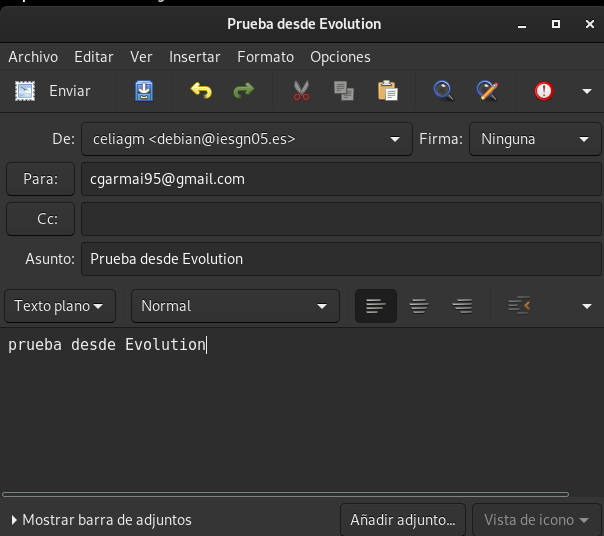
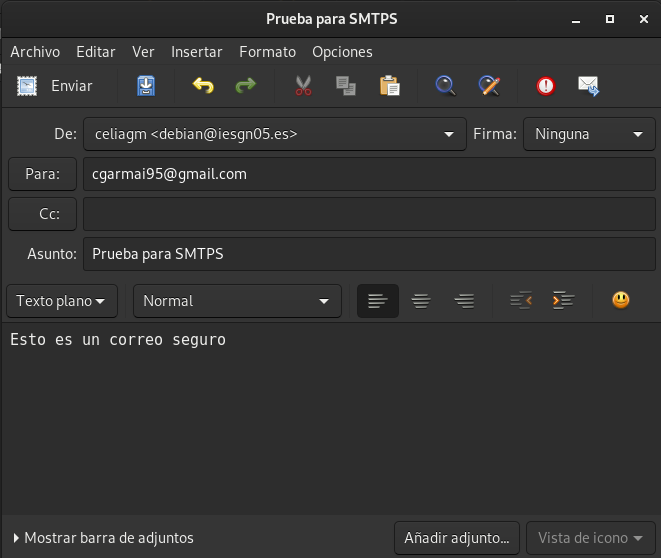
commit automatico

diff --git a/posts/2021/01/servidor-de-correos.-postfix-iii./index.html b/posts/2021/01/servidor-de-correos.-postfix-iii./index.html
@@ -55,7 +55,7 @@ Configuración:
  Para hacer esta tarea vamos a indicar a postfix en su configuración dónde se van a guardar los nuevos correos.">
 <meta itemprop="datePublished" content="2021-01-25T17:15:21+01:00" />
 <meta itemprop="dateModified" content="2021-01-25T17:15:21+01:00" />
-<meta itemprop="wordCount" content="2840">
+<meta itemprop="wordCount" content="2560">
 <meta itemprop="image" content="https://unbitdeinformacioncadadia.netlify.app/images/avatar_red.jpg"/>
 
 
@@ -155,7 +155,7 @@ Configuración:
           <circle cx="12" cy="12" r="10"></circle>
           <polyline points="12 6 12 12 16 14"></polyline>
         </svg>
-        14 minutes
+        13 minutes
 
         
       </p>
@@ -549,83 +549,39 @@ Feb  <span style="color:#ae81ff">9</span> 20:10:37 kiara postfix/smtpd<span styl
 <p>Elige una de las opciones anterior para realizar el cifrado. Y muestra la configuración de un cliente de correo (evolution, thunderbird, …) y muestra como puedes enviar los correos.</p>
 <h4 id="111-smtps-configuración">11.1. SMTPS. Configuración</h4>
 <p>Previamente hemos agregado un CNAME indicando smtp.iesgn05.es para kiara.iesgn05.es en la zona DNS.</p>
-<p>Ahora vamos a intentar mandar un correo desde el servidor a gmail. Antes de eso vamos a crear los certificados con openssl</p>
-<div class="highlight"><pre style="color:#f8f8f2;background-color:#272822;-moz-tab-size:4;-o-tab-size:4;tab-size:4"><code class="language-sh" data-lang="sh"><span style="color:#75715e"># Creamos la clave privada</span>
-debian@kiara:~$ openssl genrsa -des3 -out kiara.key <span style="color:#ae81ff">2048</span>
-Generating RSA private key, <span style="color:#ae81ff">2048</span> bit long modulus <span style="color:#f92672">(</span><span style="color:#ae81ff">2</span> primes<span style="color:#f92672">)</span>
-...........+++++
-..................................................................................................................................+++++
-e is <span style="color:#ae81ff">65537</span> <span style="color:#f92672">(</span>0x010001<span style="color:#f92672">)</span>
-Enter pass phrase <span style="color:#66d9ef">for</span> kiara.key:
-Verifying - Enter pass phrase <span style="color:#66d9ef">for</span> kiara.key:
-
-<span style="color:#75715e"># Con la clave privada creada creamos otra clave &#39;insegura&#39;</span>
-
-debian@kiara:~$ openssl rsa -in kiara.key -out kiara.key.insecure
-Enter pass phrase <span style="color:#66d9ef">for</span> kiara.key:
-writing RSA key
-
-<span style="color:#75715e"># Ahora le cambiamos el nombre de la primera clave que hemos creado y la denominamos como segura</span>
-debian@kiara:~$ mv kiara.key kiara.key.secure
-
-<span style="color:#75715e"># Después la &#39;insegura la convertimos en la clave primaria&#39;</span>
-
-debian@kiara:~$ mv kiara.key.insecure kiara.key
-
-<span style="color:#75715e"># Con openssl creamos el certificado de que nos va a servir para smtp</span>
-
-debian@kiara:~$ openssl req -new -key kiara.key -out kiara.csr
-You are about to be asked to enter information that will be incorporated
-into your certificate request.
-What you are about to enter is what is called a Distinguished Name or a DN.
-There are quite a few fields but you can leave some blank
-For some fields there will be a default value,
-If you enter <span style="color:#e6db74">&#39;.&#39;</span>, the field will be left blank.
------
-Country Name <span style="color:#f92672">(</span><span style="color:#ae81ff">2</span> letter code<span style="color:#f92672">)</span> <span style="color:#f92672">[</span>AU<span style="color:#f92672">]</span>:ES
-State or Province Name <span style="color:#f92672">(</span>full name<span style="color:#f92672">)</span> <span style="color:#f92672">[</span>Some-State<span style="color:#f92672">]</span>:Sevilla
-Locality Name <span style="color:#f92672">(</span>eg, city<span style="color:#f92672">)</span> <span style="color:#f92672">[]</span>:Sevilla
-Organization Name <span style="color:#f92672">(</span>eg, company<span style="color:#f92672">)</span> <span style="color:#f92672">[</span>Internet Widgits Pty Ltd<span style="color:#f92672">]</span>:
-Organizational Unit Name <span style="color:#f92672">(</span>eg, section<span style="color:#f92672">)</span> <span style="color:#f92672">[]</span>:
-Common Name <span style="color:#f92672">(</span>e.g. server FQDN or YOUR name<span style="color:#f92672">)</span> <span style="color:#f92672">[]</span>:
-Email Address <span style="color:#f92672">[]</span>:
-
-Please enter the following <span style="color:#e6db74">&#39;extra&#39;</span> attributes
-to be sent with your certificate request
-A challenge password <span style="color:#f92672">[]</span>:
-An optional company name <span style="color:#f92672">[]</span>:
-
-<span style="color:#75715e"># Una vez creado el certificado vamos a firmarlo con la clave primada y obtendremos el certificado final</span>
-
-debian@kiara:~$ openssl x509 -req -days <span style="color:#ae81ff">365</span> -in kiara.csr -signkey kiara.key -out kiara.crt
-Signature ok
-subject<span style="color:#f92672">=</span>C <span style="color:#f92672">=</span> ES, ST <span style="color:#f92672">=</span> Sevilla, L <span style="color:#f92672">=</span> Sevilla, O <span style="color:#f92672">=</span> Internet Widgits Pty Ltd
-Getting Private key
-
-<span style="color:#75715e"># Copiamos los certificados a los directorios pertinentes</span>
-
-debian@kiara:~$ sudo cp kiara.crt /etc/ssl/certs
-debian@kiara:~$ sudo cp kiara.key /etc/ssl/private
-
+<p>Ahora vamos a intentar mandar un correo desde el servidor a gmail.</p>
+<p>Creamos el certificado con LetsEncrypt para smtp, previamente hemos creado un CNAME con SMTP para kiara.iesgn05.es</p>
+<div class="highlight"><pre style="color:#f8f8f2;background-color:#272822;-moz-tab-size:4;-o-tab-size:4;tab-size:4"><code class="language-sh" data-lang="sh">sudo certbot certonly --standalone -d smtp.iesgn05.es
 </code></pre></div><ul>
-<li>Editamos el fichero de configuracion de postfix, cambiamos la configuracion indicando los nuevos certificados</li>
-</ul>
-<div class="highlight"><pre style="color:#f8f8f2;background-color:#272822;-moz-tab-size:4;-o-tab-size:4;tab-size:4"><code class="language-sh" data-lang="sh">debian@kiara:~$ sudo nano /etc/postfix/main.cf
-
-</code></pre></div><div class="highlight"><pre style="color:#f8f8f2;background-color:#272822;-moz-tab-size:4;-o-tab-size:4;tab-size:4"><code class="language-sh" data-lang="sh">...
-
-<span style="color:#75715e"># TLS parameters</span>
-smtpd_tls_cert_file<span style="color:#f92672">=</span>/etc/ssl/certs/kiara.crt
-smtpd_tls_key_file<span style="color:#f92672">=</span>/etc/ssl/private/kiara.key
-
-...
-
-</code></pre></div><ul>
-<li>Para usar SMTPS hay que descomentar una línea en el siguiente fichero y descomentar la línea que viene por defecto</li>
+<li>Para usar SMTPS hay que descomentar las siguientes lineas</li>
 </ul>
 <p><code>sudo nano /etc/postfix/master.cf</code></p>
-<div class="highlight"><pre style="color:#f8f8f2;background-color:#272822;-moz-tab-size:4;-o-tab-size:4;tab-size:4"><code class="language-sh" data-lang="sh"><span style="color:#75715e">#smtp      inet  n       -       y       -       -       smtpd</span>
+<div class="highlight"><pre style="color:#f8f8f2;background-color:#272822;-moz-tab-size:4;-o-tab-size:4;tab-size:4"><code class="language-sh" data-lang="sh">smtp      inet  n       -       y       -       -       smtpd
 smtps     inet  n       -       y       -       -       smtpd
+  -o syslog_name<span style="color:#f92672">=</span>postfix/smtps
+  -o smtpd_tls_wrappermode<span style="color:#f92672">=</span>yes
+  -o smtpd_sasl_auth_enable<span style="color:#f92672">=</span>yes
+  -o smtpd_client_restrictions<span style="color:#f92672">=</span>$mua_client_restrictions
+  -o milter_macro_daemon_name<span style="color:#f92672">=</span>ORIGINATING
+</code></pre></div><ul>
+<li>Editamos el fichero de configuracion de postfix, cambiamos la configuracion indicando los nuevos certificados. Añadiremos la siguiente configuración de forma que activamos TLS para que nuestros correos sean seguros y reconozcan los certificados.</li>
+</ul>
+<div class="highlight"><pre style="color:#f8f8f2;background-color:#272822;-moz-tab-size:4;-o-tab-size:4;tab-size:4"><code class="language-sh" data-lang="sh">debian@kiara:~$ sudo nano /etc/postfix/main.cf
+</code></pre></div><div class="highlight"><pre style="color:#f8f8f2;background-color:#272822;-moz-tab-size:4;-o-tab-size:4;tab-size:4"><code class="language-sh" data-lang="sh">...
+<span style="color:#75715e"># TLS parameters</span>
+
+smtpd_use_tls<span style="color:#f92672">=</span>yes
+smtpd_tls_key_file <span style="color:#f92672">=</span> /etc/letsencrypt/live/smtp.iesgn05.es/privkey.pem
+smtpd_tls_cert_file <span style="color:#f92672">=</span> /etc/letsencrypt/live/smtp.iesgn05.es/fullchain.pem
+smtpd_tls_session_cache_database <span style="color:#f92672">=</span> btree:<span style="color:#e6db74">${</span>data_directory<span style="color:#e6db74">}</span>/smtpd_scache
+smtp_tls_session_cache_database <span style="color:#f92672">=</span> btree:<span style="color:#e6db74">${</span>data_directory<span style="color:#e6db74">}</span>/smtp_scache
+
+smtp_tls_security_level <span style="color:#f92672">=</span> may
+smtpd_tls_security_level <span style="color:#f92672">=</span> may
+smtp_tls_note_starttls_offer <span style="color:#f92672">=</span> yes
+smtpd_tls_loglevel <span style="color:#f92672">=</span> <span style="color:#ae81ff">1</span>
+smtpd_tls_received_header <span style="color:#f92672">=</span> yes
+...
 </code></pre></div><ul>
 <li>Reiniciamos los servicios</li>
 </ul>
@@ -634,18 +590,20 @@ debian@kiara:~$ sudo systemctl restart dovecot
 </code></pre></div><ul>
 <li>Comprobamos los puertos. Vemos que se ha abierto el puerto 465 de SMTPS</li>
 </ul>
-<div class="highlight"><pre style="color:#f8f8f2;background-color:#272822;-moz-tab-size:4;-o-tab-size:4;tab-size:4"><code class="language-sh" data-lang="sh">debian@kiara:~$ sudo netstat -tlpn
+<div class="highlight"><pre style="color:#f8f8f2;background-color:#272822;-moz-tab-size:4;-o-tab-size:4;tab-size:4"><code class="language-sh" data-lang="sh">debian@kiara:~/Maildir/new$ sudo netstat -tlnp
 Active Internet connections <span style="color:#f92672">(</span>only servers<span style="color:#f92672">)</span>
 Proto Recv-Q Send-Q Local Address           Foreign Address         State       PID/Program name    
-tcp        <span style="color:#ae81ff">0</span>      <span style="color:#ae81ff">0</span> 0.0.0.0:993             0.0.0.0:*               LISTEN      25578/dovecot       
+tcp        <span style="color:#ae81ff">0</span>      <span style="color:#ae81ff">0</span> 0.0.0.0:993             0.0.0.0:*               LISTEN      32704/dovecot       
 tcp        <span style="color:#ae81ff">0</span>      <span style="color:#ae81ff">0</span> 0.0.0.0:3306            0.0.0.0:*               LISTEN      658/mysqld          
-tcp        <span style="color:#ae81ff">0</span>      <span style="color:#ae81ff">0</span> 0.0.0.0:143             0.0.0.0:*               LISTEN      25578/dovecot       
-tcp        <span style="color:#ae81ff">0</span>      <span style="color:#ae81ff">0</span> 0.0.0.0:465             0.0.0.0:*               LISTEN      13237/master        
+tcp        <span style="color:#ae81ff">0</span>      <span style="color:#ae81ff">0</span> 0.0.0.0:143             0.0.0.0:*               LISTEN      32704/dovecot       
+tcp        <span style="color:#ae81ff">0</span>      <span style="color:#ae81ff">0</span> 0.0.0.0:465             0.0.0.0:*               LISTEN      1157/master         
 tcp        <span style="color:#ae81ff">0</span>      <span style="color:#ae81ff">0</span> 0.0.0.0:22              0.0.0.0:*               LISTEN      568/sshd            
-tcp6       <span style="color:#ae81ff">0</span>      <span style="color:#ae81ff">0</span> :::993                  :::*                    LISTEN      25578/dovecot       
-tcp6       <span style="color:#ae81ff">0</span>      <span style="color:#ae81ff">0</span> :::143                  :::*                    LISTEN      25578/dovecot       
-tcp6       <span style="color:#ae81ff">0</span>      <span style="color:#ae81ff">0</span> :::465                  :::*                    LISTEN      13237/master        
-tcp6       <span style="color:#ae81ff">0</span>      <span style="color:#ae81ff">0</span> :::22                   :::*                    LISTEN      568/sshd  
+tcp        <span style="color:#ae81ff">0</span>      <span style="color:#ae81ff">0</span> 0.0.0.0:25              0.0.0.0:*               LISTEN      1157/master         
+tcp6       <span style="color:#ae81ff">0</span>      <span style="color:#ae81ff">0</span> :::993                  :::*                    LISTEN      32704/dovecot       
+tcp6       <span style="color:#ae81ff">0</span>      <span style="color:#ae81ff">0</span> :::143                  :::*                    LISTEN      32704/dovecot       
+tcp6       <span style="color:#ae81ff">0</span>      <span style="color:#ae81ff">0</span> :::465                  :::*                    LISTEN      1157/master         
+tcp6       <span style="color:#ae81ff">0</span>      <span style="color:#ae81ff">0</span> :::22                   :::*                    LISTEN      568/sshd            
+tcp6       <span style="color:#ae81ff">0</span>      <span style="color:#ae81ff">0</span> :::25                   :::*                    LISTEN      1157/master      
 </code></pre></div><h4 id="funcionamiento">Funcionamiento</h4>
 <ul>
 <li>En Evolution cambiamos la configuracion de smtp de la siguiente forma</li>
@@ -656,19 +614,14 @@ tcp6       <span style="color:#ae81ff">0</span>      <span style="color:#ae81ff"
 </ul>
 <p><img src="https://unbitdeinformacioncadadia.netlify.app/images/ovh_correo/pruebae.png" alt="pruebae.png"></p>
 <ul>
-<li>Nos pide una contraseña ya que, en nuestro certificado creado con openssl le hemos indicado una frase de paso. Esta frase solo la pedirá una vez cada vez que se inicie sesión en la cuenta de correo en el cliente, Evolution.</li>
-</ul>
-<p><img src="https://unbitdeinformacioncadadia.netlify.app/images/ovh_correo/pidecontrasenia.png" alt="pidecontrasenia.png"></p>
-<ul>
-<li>Vemos que lo hemos recibido en gmail correctamente</li>
+<li>Vemos que lo hemos recibido en gmail correctamente y conoce el certificado ya que está expedido por la autoridad de LetsEncrypt</li>
 </ul>
 <p><img src="https://unbitdeinformacioncadadia.netlify.app/images/ovh_correo/recibido.png" alt="recibido.png"></p>
-<p><img src="https://unbitdeinformacioncadadia.netlify.app/images/ovh_correo/recibido1.png" alt="recibido1.png"></p>
+<p><img src="https://unbitdeinformacioncadadia.netlify.app/images/ovh_correo/recibido2.jpeg" alt="recibido2.jpeg"></p>
 <ul>
 <li>Lo contestamos y comprobamos que recibe y envía correctamente correos</li>
 </ul>
-<p><img src="https://unbitdeinformacioncadadia.netlify.app/images/ovh_correo/responde1.png" alt="responde1.png"></p>
-<p><img src="https://unbitdeinformacioncadadia.netlify.app/images/ovh_correo/responde2.png" alt="responde2.png"></p>
+<p><img src="https://unbitdeinformacioncadadia.netlify.app/images/ovh_correo/recibidook.png" alt="recibidook.png"></p>
 
       </div>
     </article>
@@ -696,7 +649,7 @@ tcp6       <span style="color:#ae81ff">0</span>      <span style="color:#ae81ff"
           <line x1="16" y1="17" x2="8" y2="17"></line>
           <polyline points="10 9 9 9 8 9"></polyline>
         </svg>
-        2840 Words
+        2560 Words
       </p>
 
       <p>
